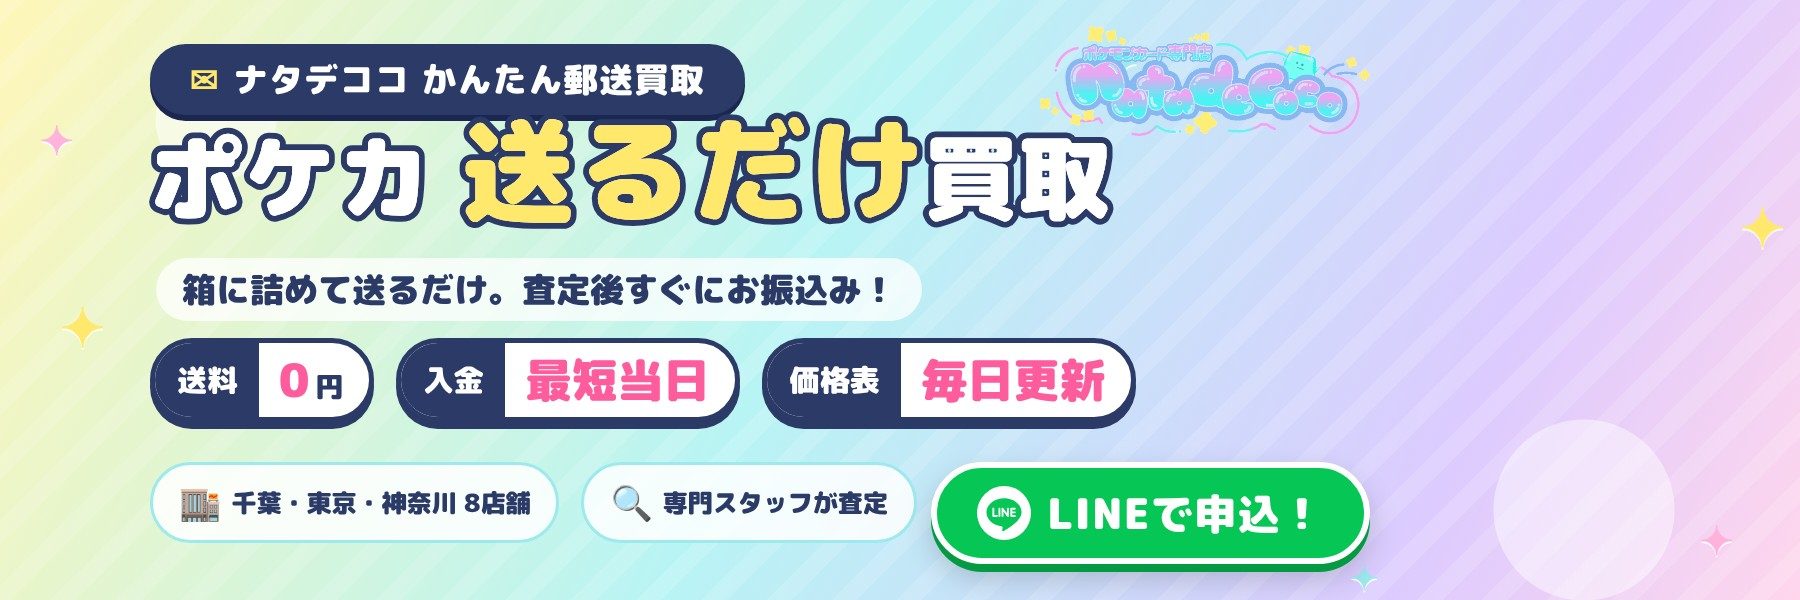
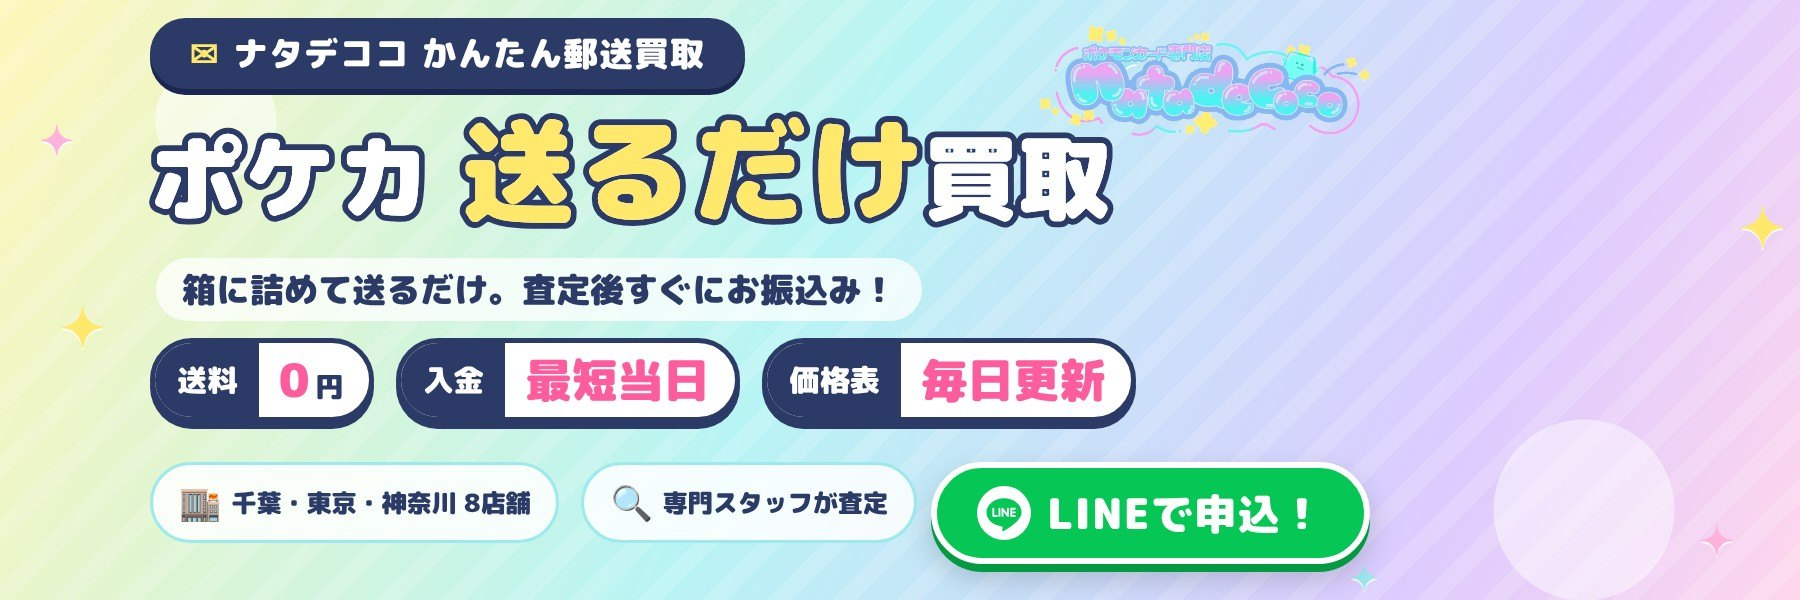
買取サイトにもLP指示を反映（帯を上へ・ミンティ削除・バナーのLINEをクリック可・ご利用方法を4ステップに）

Changed region(s): [[0.0622, 0.03, 0.4356, 0.21]]

diff --git a/page.html b/page.html
@@ -65,7 +65,7 @@ h1,h2,h3{font-family:"M PLUS Rounded 1c","Zen Kaku Gothic New",sans-serif}
 .banner.has .ph{display:none}
 .banner .ch{width:auto;height:auto;inset:auto;object-fit:unset;pointer-events:none;filter:drop-shadow(0 .6vw 0 rgba(43,58,103,.22))}
 .banner .ch.chan{right:1.7%;bottom:-4%;height:87%;transform-origin:50% 100%;animation:bchan 4s ease-in-out infinite}
-.banner .ch.minty{right:25.6%;bottom:20%;width:7.8%;animation:bminty 3s ease-in-out infinite}
+.banner .hot{position:absolute;left:51.7%;top:77%;width:24.4%;height:17%;border-radius:999px;z-index:3;transition:background .2s}.banner .hot:hover{background:rgba(255,255,255,.18)}
 .banner:not(.has) .ch{display:none}
 @keyframes bchan{0%,100%{transform:translateY(0) rotate(0)}20%{transform:translateY(0) scale(1.03,.97)}30%{transform:translateY(-3.5%) rotate(-2deg)}40%{transform:translateY(0) scale(1.03,.97)}50%{transform:translateY(-2%) rotate(2deg)}60%{transform:translateY(0)}}
 @keyframes bminty{0%,100%{transform:translateY(0) rotate(8deg)}50%{transform:translateY(-18%) rotate(0deg)}}
@@ -284,7 +284,7 @@ footer .friends img:nth-child(2n){animation-delay:.6s}footer .friends img:nth-ch
 .modal .close{position:absolute;top:10px;right:10px;border:0;background:var(--bg-2);width:34px;height:34px;border-radius:50%;cursor:pointer;font-size:18px}
 .steps{list-style:none;margin:14px 0 0;padding:0;display:flex;flex-direction:column;gap:12px}
 .steps li{display:grid;grid-template-columns:44px 1fr 64px;gap:12px;align-items:center;background:var(--bg-2);border-radius:14px;padding:10px 12px}
-.steps li img{height:60px;width:64px;object-fit:contain;justify-self:end}
+.steps li img{height:78px;width:72px;object-fit:contain;justify-self:end}
 .steps .n{width:44px;height:44px;border-radius:50%;background:linear-gradient(160deg,var(--lav),var(--cyan));color:#fff;display:flex;flex-direction:column;align-items:center;justify-content:center;font-family:"M PLUS Rounded 1c",sans-serif;font-weight:800;line-height:1;text-shadow:0 1px 2px rgba(0,0,0,.2)}
 .steps .n small{font-size:8px;letter-spacing:.1em}
 .steps b{display:block;font-size:15px}
@@ -352,9 +352,9 @@ footer .friends img:nth-child(2n){animation-delay:.6s}footer .friends img:nth-ch
   <div class="tabs" id="tabs"></div>
 
   <div class="banner" id="banner">
-    <img src="banner.jpg?v=4" alt="ポケカ 送るだけ買取" onload="this.parentNode.classList.add('has')" onerror="this.remove()">
+    <img src="banner.jpg?v=5" alt="ポケカ 送るだけ買取" onload="this.parentNode.classList.add('has')" onerror="this.remove()">
     <img class="ch chan" src="/img/banner_chan.webp" alt="">
-    <img class="ch minty" src="/img/banner_minty.webp" alt="">
+    <a class="hot" id="bannerLine" href="#" target="_blank" rel="noopener" aria-label="LINEで申込"></a>
     <div class="ph"><b>ポケカ買取強化中！</b><span>送るだけ・送料無料・最短当日入金</span><small>バナー画像（banner.jpg 1800×600px）をここに表示</small></div>
   </div>
   <div class="sfx-zero"><div class="z0"><small>ぜんぶ</small><b>¥0</b></div><ul><li>送料</li><li>査定料</li><li>キャンセル料</li><li>返送料</li><li>振込手数料</li></ul></div>
@@ -486,11 +486,10 @@ footer .friends img:nth-child(2n){animation-delay:.6s}footer .friends img:nth-ch
     <h2 id="howtoTitle">かんたん郵送買取 ご利用方法</h2>
     <p style="margin:0;color:var(--ink-2);font-size:13px">お取引は全てネットで完結。即日査定・送料無料・到着後即日入金！</p>
     <ol class="steps">
-      <li><span class="n"><small>STEP</small>1</span><div><b>ご依頼（LINE）</b><p>価格表でカードを選んで「LINEで買取申込へ進む」を押すか、売りたいカードの写真をLINEでお送りください。品番が見えるように撮っていただけると助かります。</p></div><img src="/img/chars/chan1.webp" alt=""></li>
-      <li><span class="n"><small>STEP</small>2</span><div><b>お見積り</b><p>美品での買取金額をご連絡します。傷があるとわかっている場合はあらかじめお知らせください。</p></div><img src="/img/chars/minty2.webp" alt=""></li>
-      <li><span class="n"><small>STEP</small>3</span><div><b>お申込・ご発送</b><p>ご納得いただけたら申込フォームにご入力のうえ、佐川急便の着払いでご発送ください（レターパック・ヤマトも可）。お見積りの有効期限は到着まで含めて5日間です。</p></div><img src="/img/chars/pachiru1.webp" alt=""></li>
-      <li><span class="n"><small>STEP</small>4</span><div><b>本査定</b><p>届いたカードを検品し、最終金額をご連絡します。減額後の金額にご納得いただけない場合はキャンセルも可能です（返送料は当店負担）。</p></div><img src="/img/chars/fai1.webp" alt=""></li>
-      <li><span class="n"><small>STEP</small>5</span><div><b>本人確認・お振込</b><p>古物営業法にもとづき eKYC（スマホで本人確認）を行い、その後遅滞なくお振込みします。顔写真付き身分証が必要です。</p></div><img src="/img/chars/melroot1.webp" alt=""></li>
+      <li><span class="n"><small>STEP</small>1</span><div><b>LINEで申込</b><p>価格表でカードを選んで「LINEで買取申込へ進む」を押すか、LINEのリッチメニューからお申込みください。先に写真を送っていただければ、事前にお見積りもできます。</p></div><img src="/img/step1.webp" alt=""></li>
+      <li><span class="n"><small>STEP</small>2</span><div><b>着払いで発送</b><p>お手持ちの箱でOK。佐川急便の着払いで送料0円（レターパック・ヤマトも可）。スリーブやファイルのままで大丈夫です。</p></div><img src="/img/step2.webp" alt=""></li>
+      <li><span class="n"><small>STEP</small>3</span><div><b>本査定</b><p>到着後に1枚ずつ検品し、カード到着日の価格で最終金額をLINEでご連絡します。減額に納得できなければキャンセル可（返送料は当店負担）。</p></div><img src="/img/step3.webp" alt=""></li>
+      <li><span class="n"><small>STEP</small>4</span><div><b>お振込み</b><p>古物営業法にもとづき、スマホで本人確認（eKYC・顔写真付き身分証）のあと、最短当日にお振込みします。</p></div><img src="/img/step4.webp" alt=""></li>
     </ol>
     <p style="margin:14px 0 0;text-align:center;font-size:13px"><a href="/guide/">梱包のしかた・価格の考え方など、くわしいガイドはこちら ›</a>　<a href="/faq/">よくある質問 ›</a></p>
   </div>
@@ -718,7 +717,7 @@ $("#howtoBtn").onclick=openHow;$("#howtoLink").onclick=openHow;
 $("#howtoClose").onclick=()=>$("#howto").hidden=true;
 $("#howto").addEventListener("click",e=>{if(e.target.id==="howto")$("#howto").hidden=true;});
 document.addEventListener("keydown",e=>{if(e.key==="Escape"){$("#howto").hidden=true;closeItem();}});
-$("#lineAdd").href=CONFIG.lineAddUrl;$("#lineFoot").href=CONFIG.lineAddUrl;$("#xLink").href=CONFIG.xUrl;
+$("#lineAdd").href=CONFIG.lineAddUrl;$("#lineFoot").href=CONFIG.lineAddUrl;if($("#bannerLine"))$("#bannerLine").href=CONFIG.lineAddUrl;$("#xLink").href=CONFIG.xUrl;
 
 /* ============================ 初期化 ============================ */
 function boot(items){
